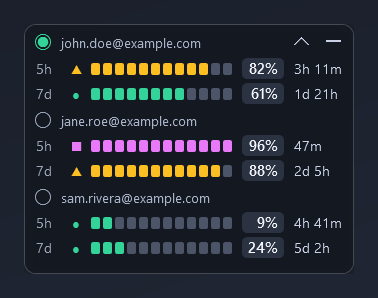
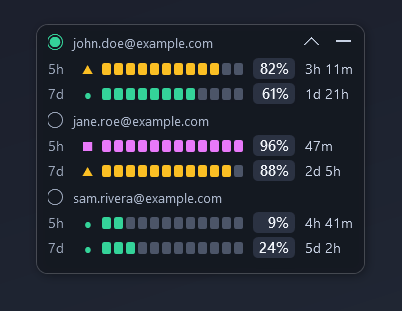
The drop shadow had square corners; give it room to fall
The shadow was drawn on the shell border, and the window was sized to exactly that
border - so WPF clipped the blur to the window's own rectangle. On a light desktop
that reads as four faint grey squares sitting behind the rounded pill, which is the
opposite of what a shadow is for.

The shell now has a 10-DIP transparent margin to fall into. Every placement decision
- snapping, the drag ghost, the free-placement offsets, the toast - moves to
PillBounds, the window rect minus that margin, so the gap at a screen edge is still
the padding the user asked for and not that plus an invisible border.

Screenshots re-taken, and the capture script aims its clicks at the pill rather than
the window, which is no longer the same rectangle.

diff --git a/src/ClaudeBar/MainWindow.xaml b/src/ClaudeBar/MainWindow.xaml
@@ -16,7 +16,13 @@
         TextOptions.TextFormattingMode="Display"
         TextOptions.TextRenderingMode="ClearType">
 
+  <!-- The margin is the room the drop shadow falls into. Without it the blur is clipped by
+       the window's own rectangle, which draws exactly what it sounds like: square, faintly
+       grey corners around the rounded pill. Everything that positions the pill measures the
+       shell, not the window - see MainWindow.PillBounds. Keep this in step with
+       MainWindow.ShadowDip. -->
   <Border x:Name="Shell"
+          Margin="10"
           CornerRadius="9"
           Padding="9,6,9,6"
           BorderBrush="#33FFFFFF"

diff --git a/src/ClaudeBar/MainWindow.xaml.cs b/src/ClaudeBar/MainWindow.xaml.cs
@@ -345,20 +345,58 @@ public partial class MainWindow : Window
 
     private IntPtr Handle => new WindowInteropHelper(this).Handle;
 
+    /// <summary>
+    /// The transparent border around the shell, in device-independent pixels, that the drop
+    /// shadow is drawn into. Must match the Margin on Shell in MainWindow.xaml.
+    /// </summary>
+    private const double ShadowDip = 10;
+
+    /// <summary>
+    /// The same margin in physical pixels, which is what every placement calculation is in.
+    /// </summary>
+    private int ShadowPx
+    {
+        get
+        {
+            var scale = VisualTreeHelper.GetDpi(this).DpiScaleX;
+            if (scale <= 0 || double.IsNaN(scale)) scale = 1.0;
+            return (int)Math.Round(ShadowDip * scale);
+        }
+    }
+
+    /// <summary>
+    /// Where the pill IS, as opposed to where its window is: the window rect minus the
+    /// shadow margin. Snapping, the ghost, the free-placement offsets and the toast all work
+    /// from this, so the gap the user sees at a screen edge is the gap they asked for rather
+    /// than that plus an invisible border.
+    /// </summary>
+    private Native.Rect PillBounds
+    {
+        get
+        {
+            var b = Native.GetBounds(Handle);
+            if (b.Width == 0) return b;
+            var m = ShadowPx;
+            return new Native.Rect { Left = b.Left + m, Top = b.Top + m, Right = b.Right - m, Bottom = b.Bottom - m };
+        }
+    }
+
     public void Reposition()
     {
         UpdateLayout();
         var handle = Handle;
         if (handle == IntPtr.Zero) return;
 
-        var bounds = Native.GetBounds(handle);
+        var bounds = PillBounds;
         var width = bounds.Width > 0 ? bounds.Width : 248;
         var height = bounds.Height > 0 ? bounds.Height : 48;
 
         var monitor = ScreenService.Resolve(_settings.MonitorDeviceName);
         var (x, y) = ScreenService.Place(monitor, _settings.Anchor, width, height,
             _settings.SnapPadding, _settings.OffsetX, _settings.OffsetY);
-        Native.MoveTo(handle, x, y);
+
+        // Place the pill there; the window itself starts a shadow's width earlier.
+        Native.MoveTo(handle, x - ShadowPx, y - ShadowPx);
 
         Diagnostics.Log(() =>
             $"place: monitor={monitor.DeviceName} anchor={_settings.Anchor} " +
@@ -425,10 +463,17 @@ public partial class MainWindow : Window
         var y = cy - _dragOffsetY;
         Native.MoveTo(handle, x, y);
 
-        // Work out where letting go would put it, and show that as a ghost.
-        var monitor = ScreenService.FromPoint(x + bounds.Width / 2, y + bounds.Height / 2);
-        _pendingAnchor = ScreenService.AnchorForDrop(monitor, x, y,
-            bounds.Width, bounds.Height, _settings.SnapThreshold);
+        // Where the pill now is, inside that window, and where letting go would put it.
+        var m = ShadowPx;
+        var pillX = x + m;
+        var pillY = y + m;
+        var pill = PillBounds;
+        var width = pill.Width > 0 ? pill.Width : bounds.Width;
+        var height = pill.Height > 0 ? pill.Height : bounds.Height;
+
+        var monitor = ScreenService.FromPoint(pillX + width / 2, pillY + height / 2);
+        _pendingAnchor = ScreenService.AnchorForDrop(monitor, pillX, pillY,
+            width, height, _settings.SnapThreshold);
 
         if (_pendingAnchor == SnapAnchor.Free)
         {
@@ -437,10 +482,10 @@ public partial class MainWindow : Window
         }
 
         var (gx, gy) = ScreenService.Place(monitor, _pendingAnchor,
-            bounds.Width, bounds.Height, _settings.SnapPadding, 0, 0);
+            width, height, _settings.SnapPadding, 0, 0);
 
         _ghost ??= new GhostWindow();
-        _ghost.ShowAt(gx, gy, bounds.Width, bounds.Height);
+        _ghost.ShowAt(gx, gy, width, height);
     }
 
     private void OnDragEnd(object sender, MouseButtonEventArgs e)
@@ -460,7 +505,7 @@ public partial class MainWindow : Window
         _dragging = false;
         _ghost?.HideGhost();
 
-        var bounds = Native.GetBounds(Handle);
+        var bounds = PillBounds;
         if (bounds.Width == 0) return;
 
         var monitor = ScreenService.FromPoint(
@@ -850,7 +895,7 @@ public partial class MainWindow : Window
         Diagnostics.Log(() => $"toast[{level}]: {title} - {body}");
 
         var monitor = ScreenService.Resolve(_settings.MonitorDeviceName);
-        var pill = Native.GetBounds(Handle);
+        var pill = PillBounds;
         var bottom = pill.Height > 0 && IsVisible
             ? pill.Top - 8
             : monitor.Bottom - _settings.SnapPadding;
